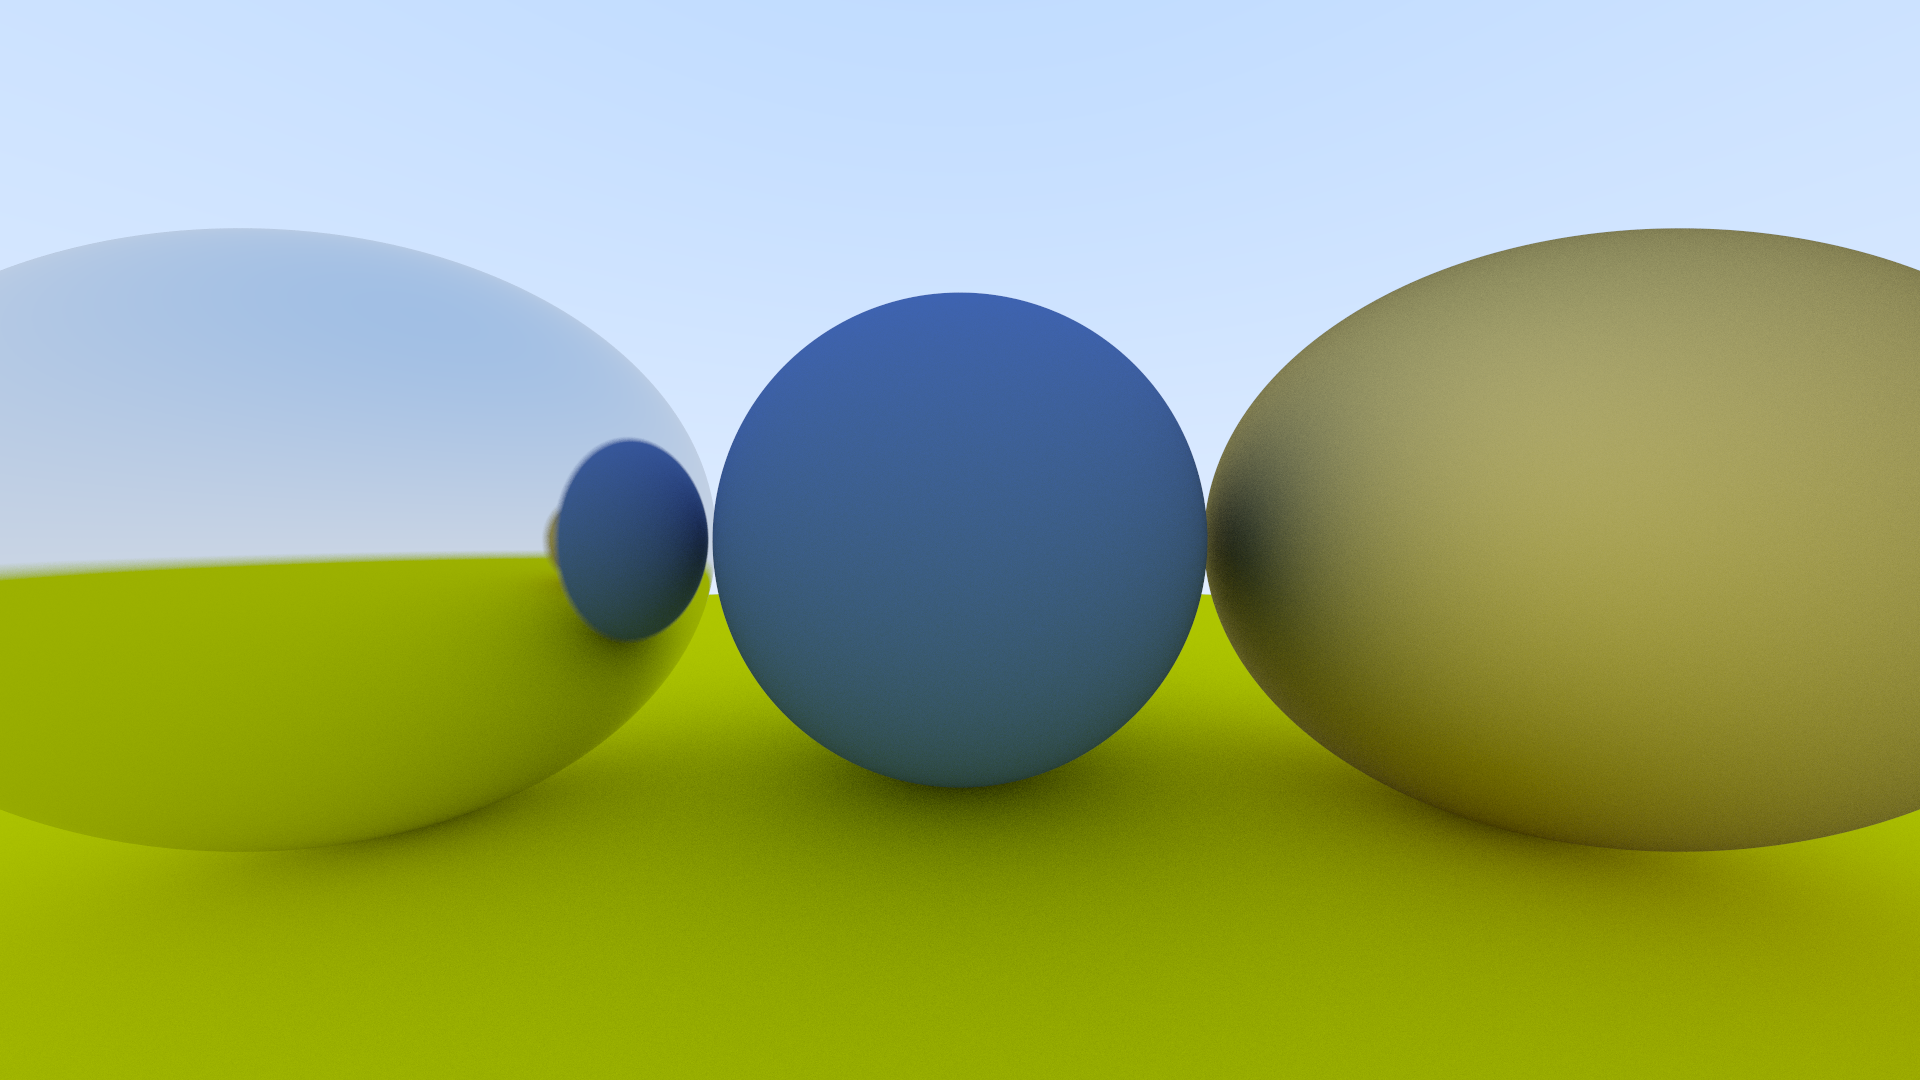
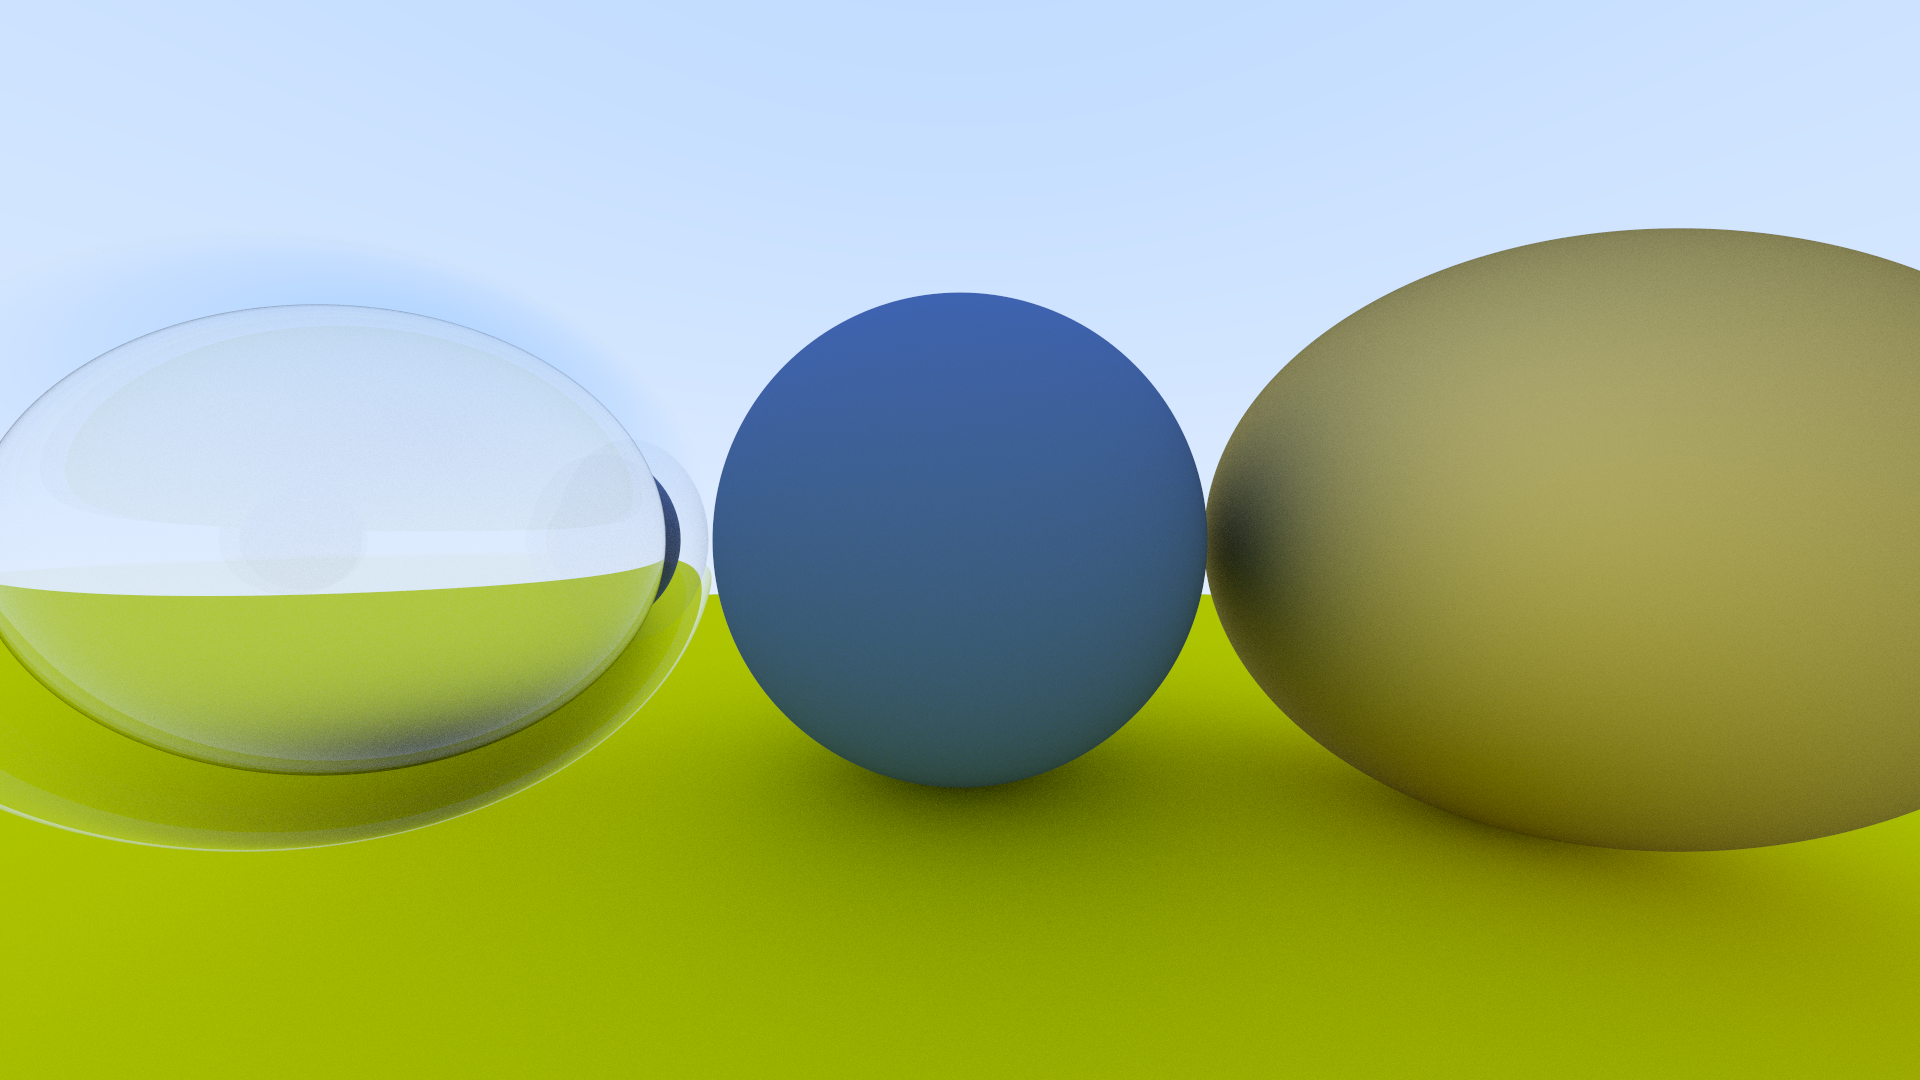
added dielectric material

Changed region(s): [[0.0, 0.2139, 0.4062, 0.8556]]

diff --git a/src/scenes/surface_normals.rs b/src/scenes/surface_normals.rs
@@ -1,5 +1,5 @@
 use crate::camera::Camera;
-use crate::material::{Diffuse, Material, Metallic};
+use crate::material::{Dielectric, Diffuse, Material, Metallic};
 use crate::object::{Object, Sphere, World};
 use crate::vec3::{Color, Point3};
 use image::ImageBuffer;
@@ -8,14 +8,15 @@ pub fn surface_normals() -> ImageBuffer<image::Rgb<u8>, Vec<u8>> {
     let aspect_ratio = 16. / 9.;
     let image_width: u32 = 1920;
     let num_samples = 300;
-    let max_bounce_depth = 10;
+    let max_bounce_depth = 8;
 
     // world
     let mut world = World::new();
 
     let mat_center = Material::Diffuse(Diffuse::new(&Color::new(0.1, 0.2, 0.5)));
     let mat_grnd = Material::Diffuse(Diffuse::new(&Color::new(0.8, 0.8, 0.0)));
-    let mat_left = Material::Metallic(Metallic::new(&Color::new(0.8, 0.8, 0.8), 0.03));
+    let mat_left = Material::Dielectric(Dielectric::new(1.5));
+    let mat_bubble = Material::Dielectric(Dielectric::new(1. / 1.5));
     let mat_right = Material::Metallic(Metallic::new(&Color::new(0.8, 0.6, 0.2), 1.));
 
     world.push(Object::Sphere(Sphere::new(
@@ -34,6 +35,12 @@ pub fn surface_normals() -> ImageBuffer<image::Rgb<u8>, Vec<u8>> {
         Point3::new(-1., 0., -1.),
         0.5,
         mat_left,
+    )));
+
+    world.push(Object::Sphere(Sphere::new(
+        Point3::new(-1., 0., -1.),
+        0.4,
+        mat_bubble,
     )));
 
     world.push(Object::Sphere(Sphere::new(

diff --git a/src/vec3.rs b/src/vec3.rs
@@ -98,12 +98,31 @@ impl Vec3 {
         self.0.abs() < LIMIT && self.1.abs() < LIMIT && self.2.abs() < LIMIT
     }
 
-    pub fn reflect(&self, other: &Vec3) -> Vec3 {
+    pub fn reflect(&self, normal: &Vec3) -> Vec3 {
         // reflection of vector is V - 2b
         // where b is distance from V to surface
         // because V points into the surface b
         // needs to be negated
-        *self - (2. * other.clone() * self.dot(other))
+        *self - (2. * normal.clone() * self.dot(normal))
+    }
+
+    /// This returns a vector resulting in the refraction of incident vector `self`.
+    /// R = R_parallel + R_perpendicular
+    /// R_parallel = -sqrt( 1 - |R_perpendicular|^2 * N )
+    /// R_perpendicular = RI_incident/RI_refraction * (R + (-r.N) * N)
+    ///
+    /// Params:
+    /// * `normal` - surface normal of the material hit
+    /// * `ri ratio` - ratio of refractive index:
+    /// [material incident vector is in] / [material hit]
+    pub fn refract(&self, normal: &Vec3, ri_ratio: f32) -> Vec3 {
+        let cos_theta = 1.0f32.min((-*self).dot(normal));
+
+        // type inference fking up here??
+        let r_perpendicular = ri_ratio * (*self + cos_theta * normal.clone());
+        let r_parallel = -((1. - r_perpendicular.len_sq()).abs().sqrt()) * normal.clone();
+
+        r_perpendicular + r_parallel
     }
 }
 
